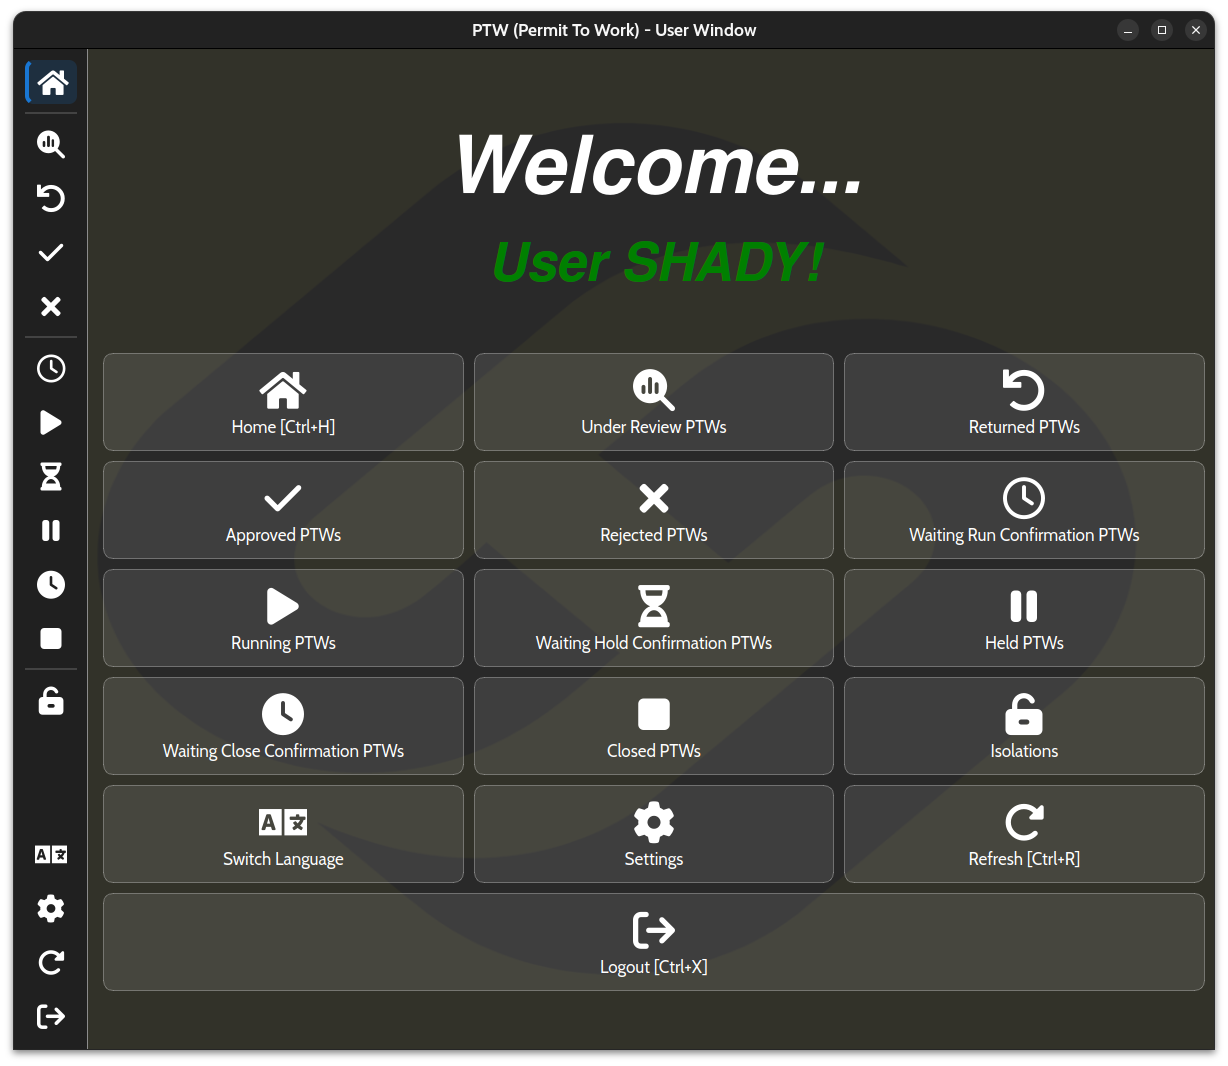
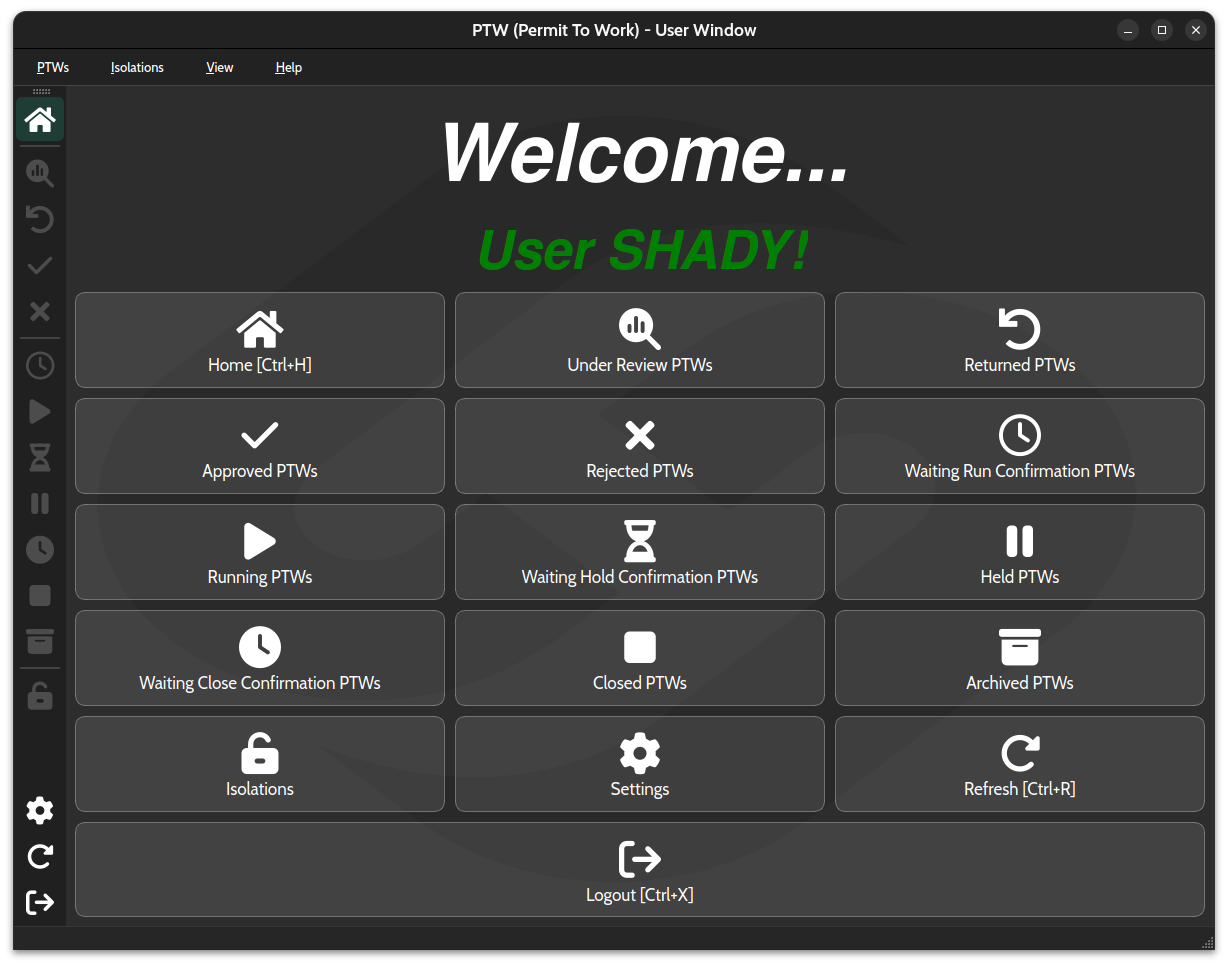
Updated Screenshoots

diff --git a/README.md b/README.md
@@ -12,6 +12,9 @@ A desktop-based **Permit To Work (PTW)** management system built for industrial 
 **PTW List:**
 ![PTW List](screenshots/ptw-list.png)
 
+**PTW List Filtered:**
+![PTW List](screenshots/ptw-list-filtered   .png)
+
 **Isolations:**
 ![Isolations](screenshots/isolations.png) 
 
